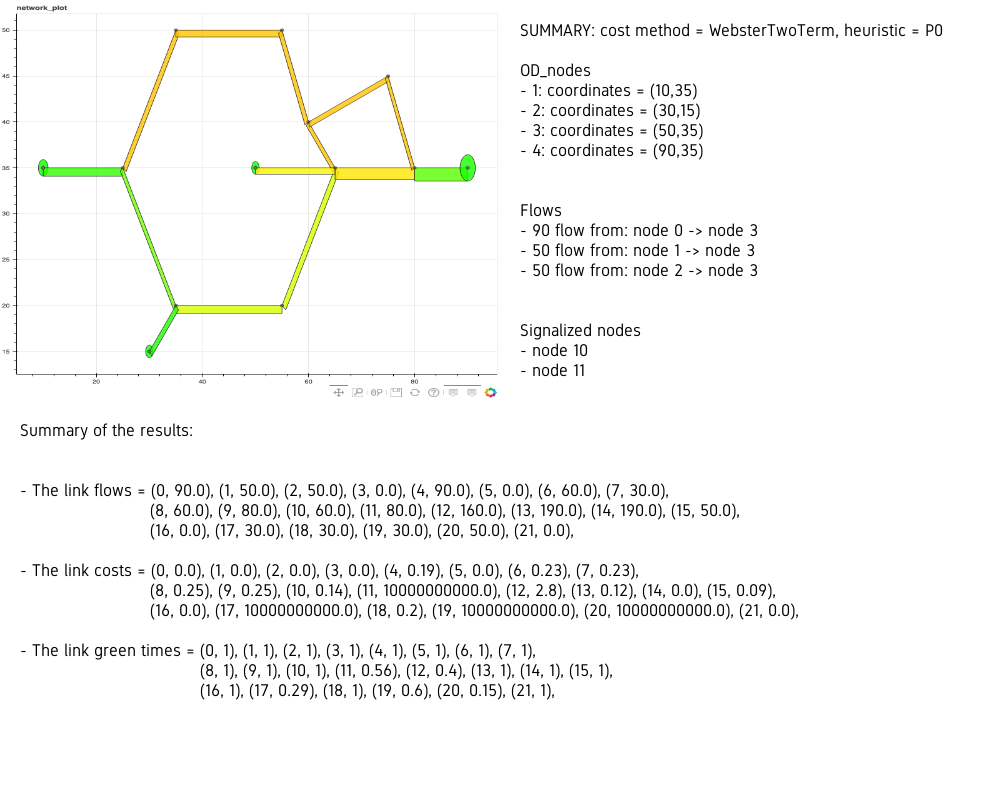
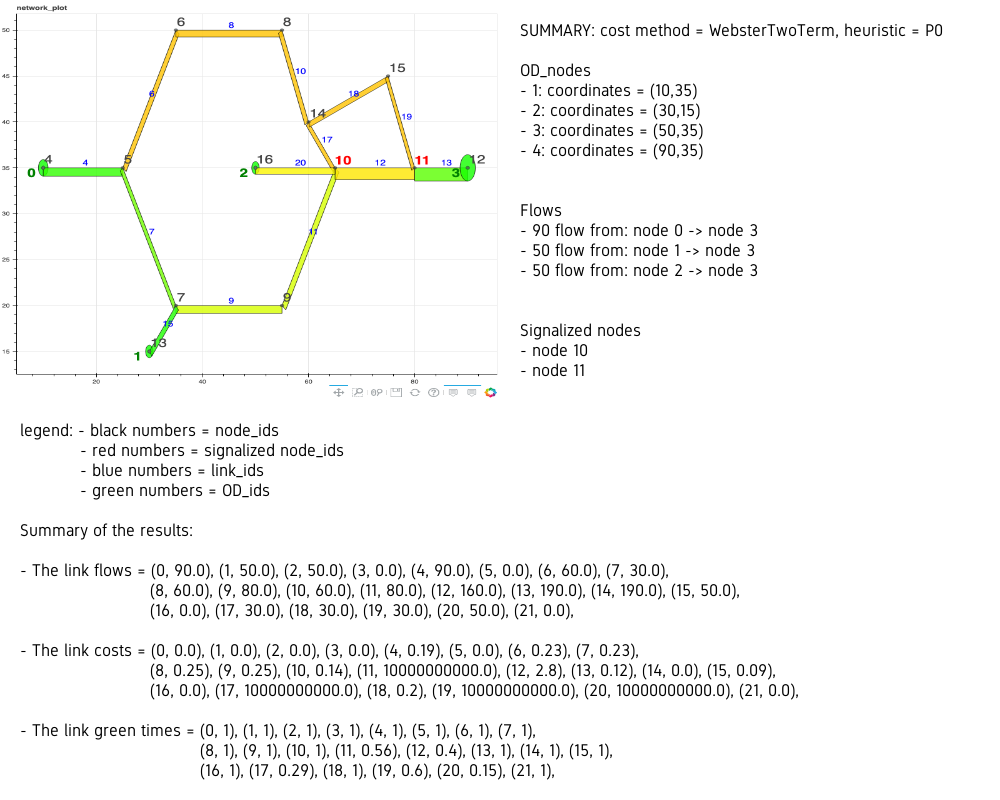
Added the link, node, od ids on the graph so its easier to viziualize

Changed region(s): [[0.031, 0.5312, 0.806, 0.875], [0.031, 0.9062, 0.558, 0.9688], [0.434, 0.1875, 0.465, 0.2188]]

diff --git a/ownCode/visualisation_override.py b/ownCode/visualisation_override.py
@@ -1,0 +1,199 @@
+import numpy as np
+from bokeh.io import  show
+from dyntapy.settings import parameters
+from dyntapy.utilities import __create_green_to_red_cm
+from dyntapy.visualization import _process_plot_arguments, get_max_edge_width, _get_colors_and_coords, _edge_cds, warnings, Patches, HoverTool, _node_cds, Circle
+from bokeh.models import  LabelSet, ColumnDataSource
+from ownFunctions import global_signalized_nodes
+
+traffic_cm = __create_green_to_red_cm()
+
+link_highlight_colors = parameters.visualization.link_highlight_colors
+node_highlight_color = parameters.visualization.node_highlight_color
+node_color = parameters.visualization.node_color
+centroid_color = parameters.visualization.centroid_color
+node_size = parameters.visualization.node_size
+
+def show_network(
+    g,
+    flows=None,
+    link_kwargs=dict(),
+    node_kwargs=dict(),
+    highlight_links=np.array([]),
+    highlight_nodes=np.array([]),
+    euclidean=False,
+    title=None,
+    notebook=False,
+    show_nodes=True,
+    return_plot=False,
+    signalized_nodes = False, 
+    O_or_D = False,
+):
+
+    plot, tmp, link_width_scaling = _process_plot_arguments(
+        g, title, notebook, euclidean, link_kwargs, node_kwargs
+    )
+    show_flows = True
+    if flows is not None:
+        pass
+    else:
+        flows = np.zeros(g.number_of_edges())
+        show_flows = False
+    max_flow = max(np.max(flows), 1)
+
+    max_width_bokeh, max_width_coords = get_max_edge_width(
+        tmp,
+        link_width_scaling,
+        parameters.visualization.plot_size,
+    )
+
+    if type(highlight_links) not in (np.ndarray, list):
+        raise ValueError
+    c, x, y = _get_colors_and_coords(
+        tmp,
+        max_width_coords,
+        max_flow,
+        flows,
+        time_step=1,
+        highlight_links=highlight_links,
+        patch_ratio=parameters.visualization.link_width_min_max_ratio,
+    )
+    edge_source = _edge_cds(tmp, c, flows, x, y, **link_kwargs)
+    edge_renderer = plot.add_glyph(
+        edge_source,
+        glyph=Patches(
+            xs="x",
+            ys="y",
+            fill_color="color",
+            line_color="black",
+            line_alpha=0.8,
+            fill_alpha=parameters.visualization.link_transparency,
+        ),
+    )
+    edge_tooltips = [
+        (item, f"@{item}")
+        for item in parameters.visualization.link_keys + list(link_kwargs.keys())
+        if item != "flow"
+    ]
+    if show_flows:
+        edge_tooltips.append(("flow", "@flow{(0.00)}"))
+    edge_hover = HoverTool(
+        show_arrow=False,
+        tooltips=edge_tooltips,
+        renderers=[edge_renderer],
+        description="Link Hover Tool",
+    )
+    if show_nodes:
+        node_source = _node_cds(tmp, highlight_nodes, **node_kwargs)
+        node_renderer = plot.add_glyph(
+            node_source,
+            glyph=Circle(
+                x="x",
+                y="y",
+                size=node_size,
+                line_color="black",
+                fill_color="color",
+                line_alpha=0.4,
+                fill_alpha=0.7,
+                line_width=node_size / 10,
+            ),
+        )
+        node_tooltips = [
+            (item, f"@{item}")
+            for item in parameters.visualization.node_keys + list(node_kwargs.keys())
+        ]
+        node_hover = HoverTool(
+            show_arrow=False,
+            tooltips=node_tooltips,
+            renderers=[node_renderer],
+            description="Node Hover Tool",
+        )
+        plot.add_tools(node_hover)
+    plot.add_tools(edge_hover)
+
+    # add labels
+    source1 = get_node_list(g,signalized_nodes)
+    labels1 = LabelSet(x='x', y='y', text='names',
+              x_offset=2, y_offset=2, source = source1, render_mode='css',text_color = "#444444", text_font_size = "24px")
+    source2 = get_link_list(g)
+    labels2 = LabelSet(x='x', y='y', text='names',
+              x_offset=0, y_offset=0, source = source2, render_mode='css', text_color = '#0000FF' , text_font_size = "16px")
+    source3 = get_signal_node_list(g,signalized_nodes)
+    labels3 = LabelSet(x='x', y='y', text='names',
+              x_offset=0, y_offset=0, source = source3, render_mode='css', text_color = '#FF0000' , text_font_size = "24px", text_font_style = 'bold')
+    source4 = get_od_list(O_or_D)
+    labels4 = LabelSet(x='x', y='y', text='names',
+              x_offset=-25, y_offset=-25, source = source4, render_mode='css', text_color = '#008000' , text_font_size = "24px", text_font_style = 'bold')
+    
+    plot.add_layout(labels1)
+    plot.add_layout(labels2)
+    plot.add_layout(labels3)
+    plot.add_layout(labels4)
+    if not return_plot:
+        show(plot)
+    else:
+        return plot
+    
+
+def get_node_list(g, signalized_nodes):
+    x_coord = []
+    y_coord = []
+    id_s = []
+    for v in g.nodes:
+        try:
+            g.nodes[v]['centroid']
+        except KeyError:
+            if g.nodes[v]['node_id'] not in signalized_nodes:
+                x_coord.append(g.nodes[v]['x_coord'])
+                y_coord.append(g.nodes[v]['y_coord'])
+                id_s.append(str(g.nodes[v]['node_id']))
+    source = ColumnDataSource(data=dict(x=x_coord,
+                                    y=y_coord,
+                                    names=id_s))
+    return source
+
+def get_link_list(g):
+    x_coord = []
+    y_coord = []
+    id_s = []
+
+    for u,v,data in g.edges.data():
+        try:
+            data['connector']
+        except KeyError:
+            x_coord.append((g.nodes[u]['x_coord']+g.nodes[v]['x_coord'])/2)
+            y_coord.append((g.nodes[u]['y_coord']+g.nodes[v]['y_coord'])/2)
+            id_s.append(str(data['link_id']))
+    source = ColumnDataSource(data=dict(x=x_coord,
+                                    y=y_coord,
+                                    names=id_s))
+    return source 
+
+def get_signal_node_list(g, signalized_nodes):
+    x_coord = []
+    y_coord = []
+    id_s = []
+
+    for v in g.nodes:
+        if g.nodes[v]['node_id'] in signalized_nodes:
+            x_coord.append(g.nodes[v]['x_coord'])
+            y_coord.append(g.nodes[v]['y_coord'])
+            id_s.append(str(g.nodes[v]['node_id']))
+
+    source = ColumnDataSource(data=dict(x=x_coord,
+                                    y=y_coord,
+                                    names=id_s))
+    return source
+
+def get_od_list(O_or_D):
+    x_coord = []
+    y_coord = []
+    id_s = []
+    for idx,(x,y) in enumerate(O_or_D):
+        x_coord.append(x)
+        y_coord.append(y)
+        id_s.append(idx)
+    source = ColumnDataSource(data=dict(x=x_coord,
+                                    y=y_coord,
+                                    names=id_s))
+    return source

diff --git a/ownCode/main.py b/ownCode/main.py
@@ -4,7 +4,7 @@ import pathlib
 import matplotlib.pyplot as plt
 
 
-from dyntapy import show_network
+from visualisation_override import show_network, get_node_list, get_link_list
 from network_summary import create_summary, demand_summary, result_summary
 from own_networks import makeOwnToyNetwork
 from ownFunctions import getODGraph, set_signalized_nodes_and_links, generateFirstGreen, addCentroidODNodes
@@ -67,6 +67,7 @@ def main():
     odGraph = getODGraph(OD_flow, O_or_D)
     assignment = GreenStaticAssignment(g, odGraph)
 
+
     # The first greens are automatically set to 0.5 to for all the intersecting links
     firstGreens, non_connectors = generateFirstGreen(g)
     print('first greens = {}'.format(firstGreens))
@@ -106,9 +107,9 @@ def main():
 
     
     if not summary:
-        show_network(g, flows=result.flows, euclidean=True)
+        show_network(g, flows=result.flows, euclidean=True, signalized_nodes=signalized_nodes, O_or_D=O_or_D)
     else:
-        graph = show_network(g, flows = result.flows, euclidean=True,return_plot=True)
+        graph = show_network(g, flows = result.flows, euclidean=True,return_plot=True, signalized_nodes=signalized_nodes, O_or_D=O_or_D)
         export_png(graph, filename=str(pathlib.Path(__file__).parent)+'/summaryFiles/rawFigures/network.png' )
         listOfPlots = ['network.png']
         summary_string = 'SUMMARY: cost method = {}, heuristic = {}'.format(methodCost, methodGreen)

diff --git a/ownCode/network_summary.py b/ownCode/network_summary.py
@@ -51,7 +51,7 @@ def demand_summary(O_or_D, OD_flow, signalized_nodes):
     return string
 
 def result_summary(result,greens):
-    string = 'Summary of the results:\n\n\n'
+    string = 'legend: - black numbers = node_ids\n            - red numbers = signalized node_ids\n            - blue numbers = link_ids\n            - green numbers = OD_ids\n\nSummary of the results:\n\n'
     string1 = '- The link flows = '
     string2 = '- The link costs = '
     string3 = '- The link green times = '
